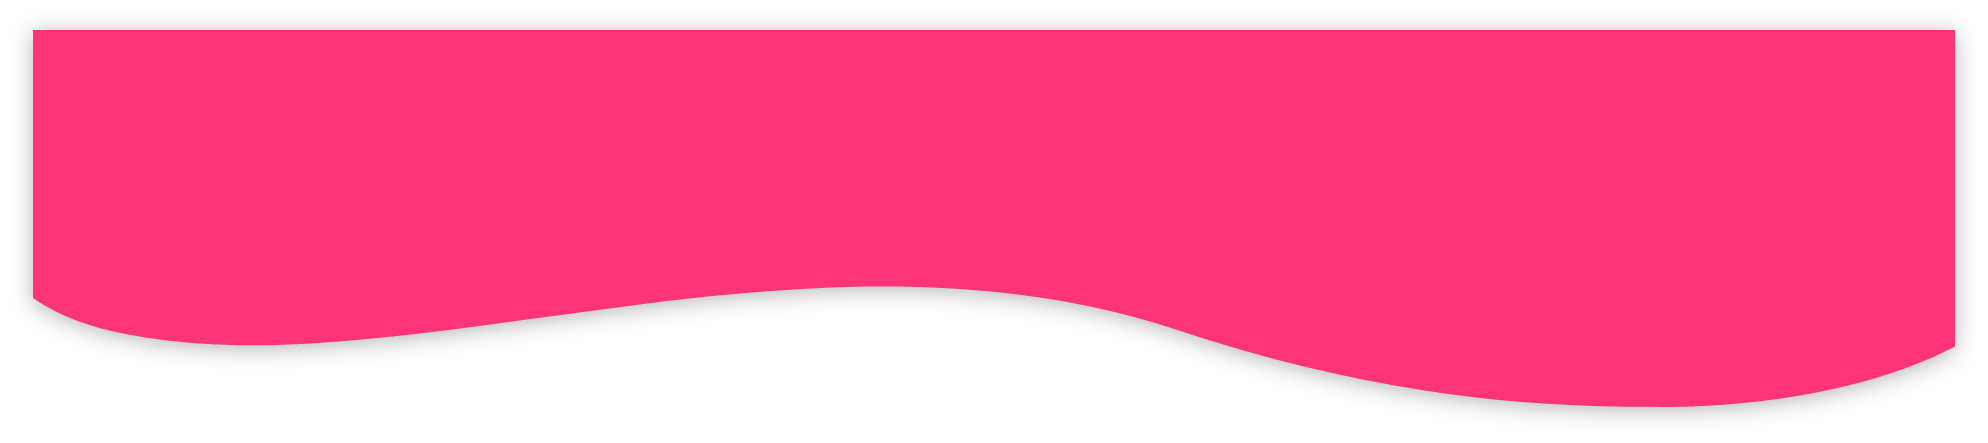
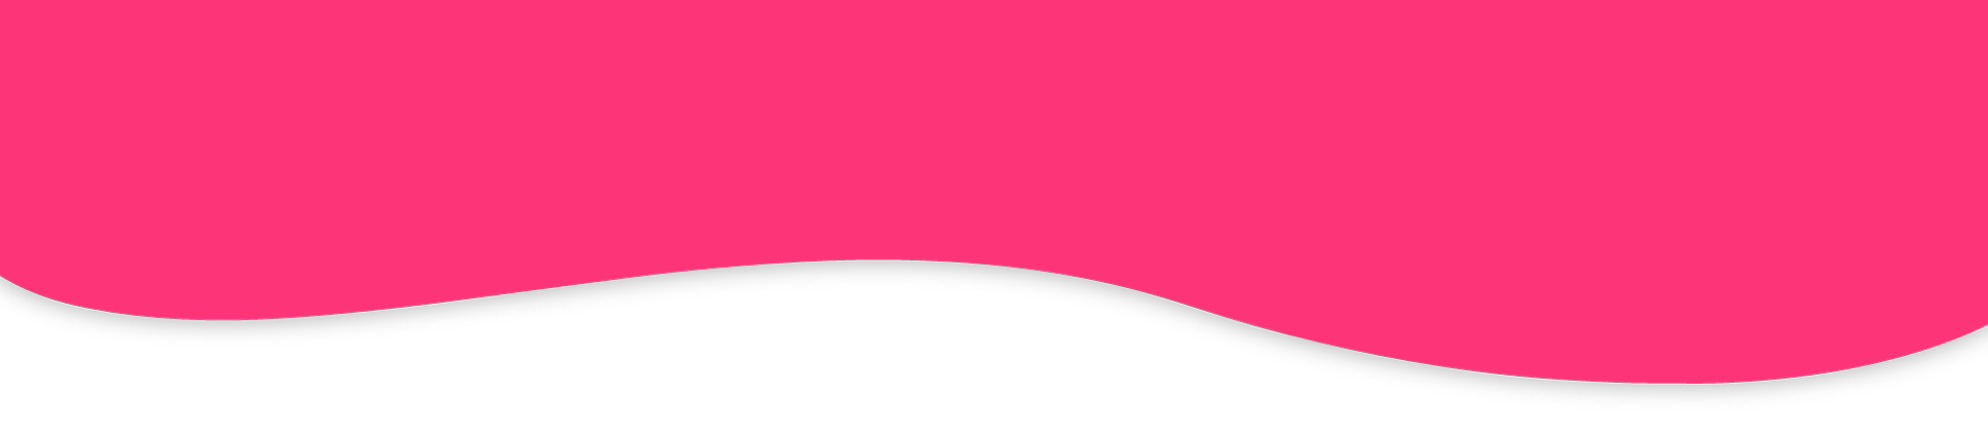
퍼블리싱 진행중

Changed region(s): [[0.0, 0.0, 1.0, 0.9391]]

diff --git a/css/style.css b/css/style.css
@@ -65,7 +65,7 @@ body {
   position: absolute;
   left: 50%;
   transform: translate(-50%);
-  bottom: -250px;
+  bottom: -1px;
 }
 
 #two-page{
@@ -401,11 +401,12 @@ body {
   content: ' ';
 }
 .p6-wave-2 {
+  width: 100%;
+  height: 237px;
   position: absolute;
   left: 0;
   right: 0;
   top: 274px;
-  height: 237px;
 }
 .p6-vlog-list {
   position: relative;
@@ -1056,7 +1057,7 @@ body {
   top: 122px;
 }
 .p8-result {
-  height: 865px;
+  height: 1205px;
   position: relative;
 }
 .p8-result-box {
@@ -1085,6 +1086,13 @@ body {
   color: #ffffff;
   position: relative;
   z-index: 1;
+}
+.p8-result-img {
+  width: 100%;
+  height: 350px;
+  display: flex;
+  align-items: center;
+  justify-content: center;
 }
 .p8-2st-text1 {
   position: absolute;
@@ -1140,7 +1148,10 @@ body {
   top: 475px;
 }
 .p8-wave {
+  width: 100%;
   height: 364px;
+  position: absolute;
+  bottom: 20px;
 }
 .p8-wave > img {
   width: 100%;
@@ -1176,7 +1187,7 @@ body {
 }
 .p9-content-box {
   width: 100%;
-  height: 600px;
+  height: 1200px;
   background-color: lightpink;
   margin-top: 70px;
 }
@@ -1187,13 +1198,13 @@ body {
 .p9-insight-coktail-heart {
   position: absolute;
   left: 50%;
-  bottom: 198px;
+  bottom: 288px;
   transform :translateX(-50%);
 }
 .p9-insight-coktail {
   position: absolute;
   left: 50%;
-  bottom: -215px;
+  bottom: -125px;
   transform :translateX(-53%);
 }
 .p9-insight-title {
@@ -1210,7 +1221,7 @@ body {
 }
 .p9-insight-box {
   width: 68%;
-  height: 350px;
+  height: 280px;
   position: relative;
   left: 50%;
   transform: translateX(-50%);
@@ -1245,6 +1256,15 @@ body {
   right: 0;
 }
 .p9-insight-result {
+  width: 100%;
+  height: 380px;
+  display: flex;
+  align-items: center;
+  justify-content: center;
+}
+.p9-result-box {
+  width: 1000px;
+  height: 100%;
   position: relative;
 }
 .p9-insight-result-text {
@@ -1258,7 +1278,7 @@ body {
 }
 .p9-insight-result-arrow {
   position: absolute;
-  left: 444px;
+  left: 0;
   top: 52px;
 }
 .p9-wave {

diff --git a/index.html b/index.html
@@ -125,7 +125,7 @@
     </div>
 
     <div class="pages" id="six-page">
-      <img class="p6-wave" src="img/p6-wave@2x.png" alt="" />
+      <img class="p6-wave" src="img/p6-wave.png" alt="" />
       <img class="p6-top-arrow" src="img/p5-down.png" height="30"/>
       <div class="p6-persona">
         <div class="p6-persona-title">Persona</div>
@@ -471,6 +471,9 @@
               <br />
               필요 데이터를 입력하는 과정도 더 간단했다.
             </div>
+            <div class="p8-result-img">
+              <img src="img/p8-result-img.png" alt=""/>
+            </div>
           </div>
         </div>
       </div>
@@ -502,9 +505,11 @@
           <img src="img/p9-deco2.png" class="p9-deco2" alt="" />
         </div>
         <div class="p9-insight-result">
-          <img src="img/p9-arrow.png" alt="" class="p9-insight-result-arrow" />
-          <div class="p9-insight-result-text">
-            번거로움은 줄이고 결과는 정확하게!
+          <div class="p9-result-box">
+            <img src="img/p9-arrow.png" alt="" class="p9-insight-result-arrow" />
+            <div class="p9-insight-result-text">
+              번거로움은 줄이고 결과는 정확하게!
+            </div>
           </div>
         </div>
         <img src="img/p9-coktail-heart.png" class="p9-insight-coktail-heart" alt="" />
